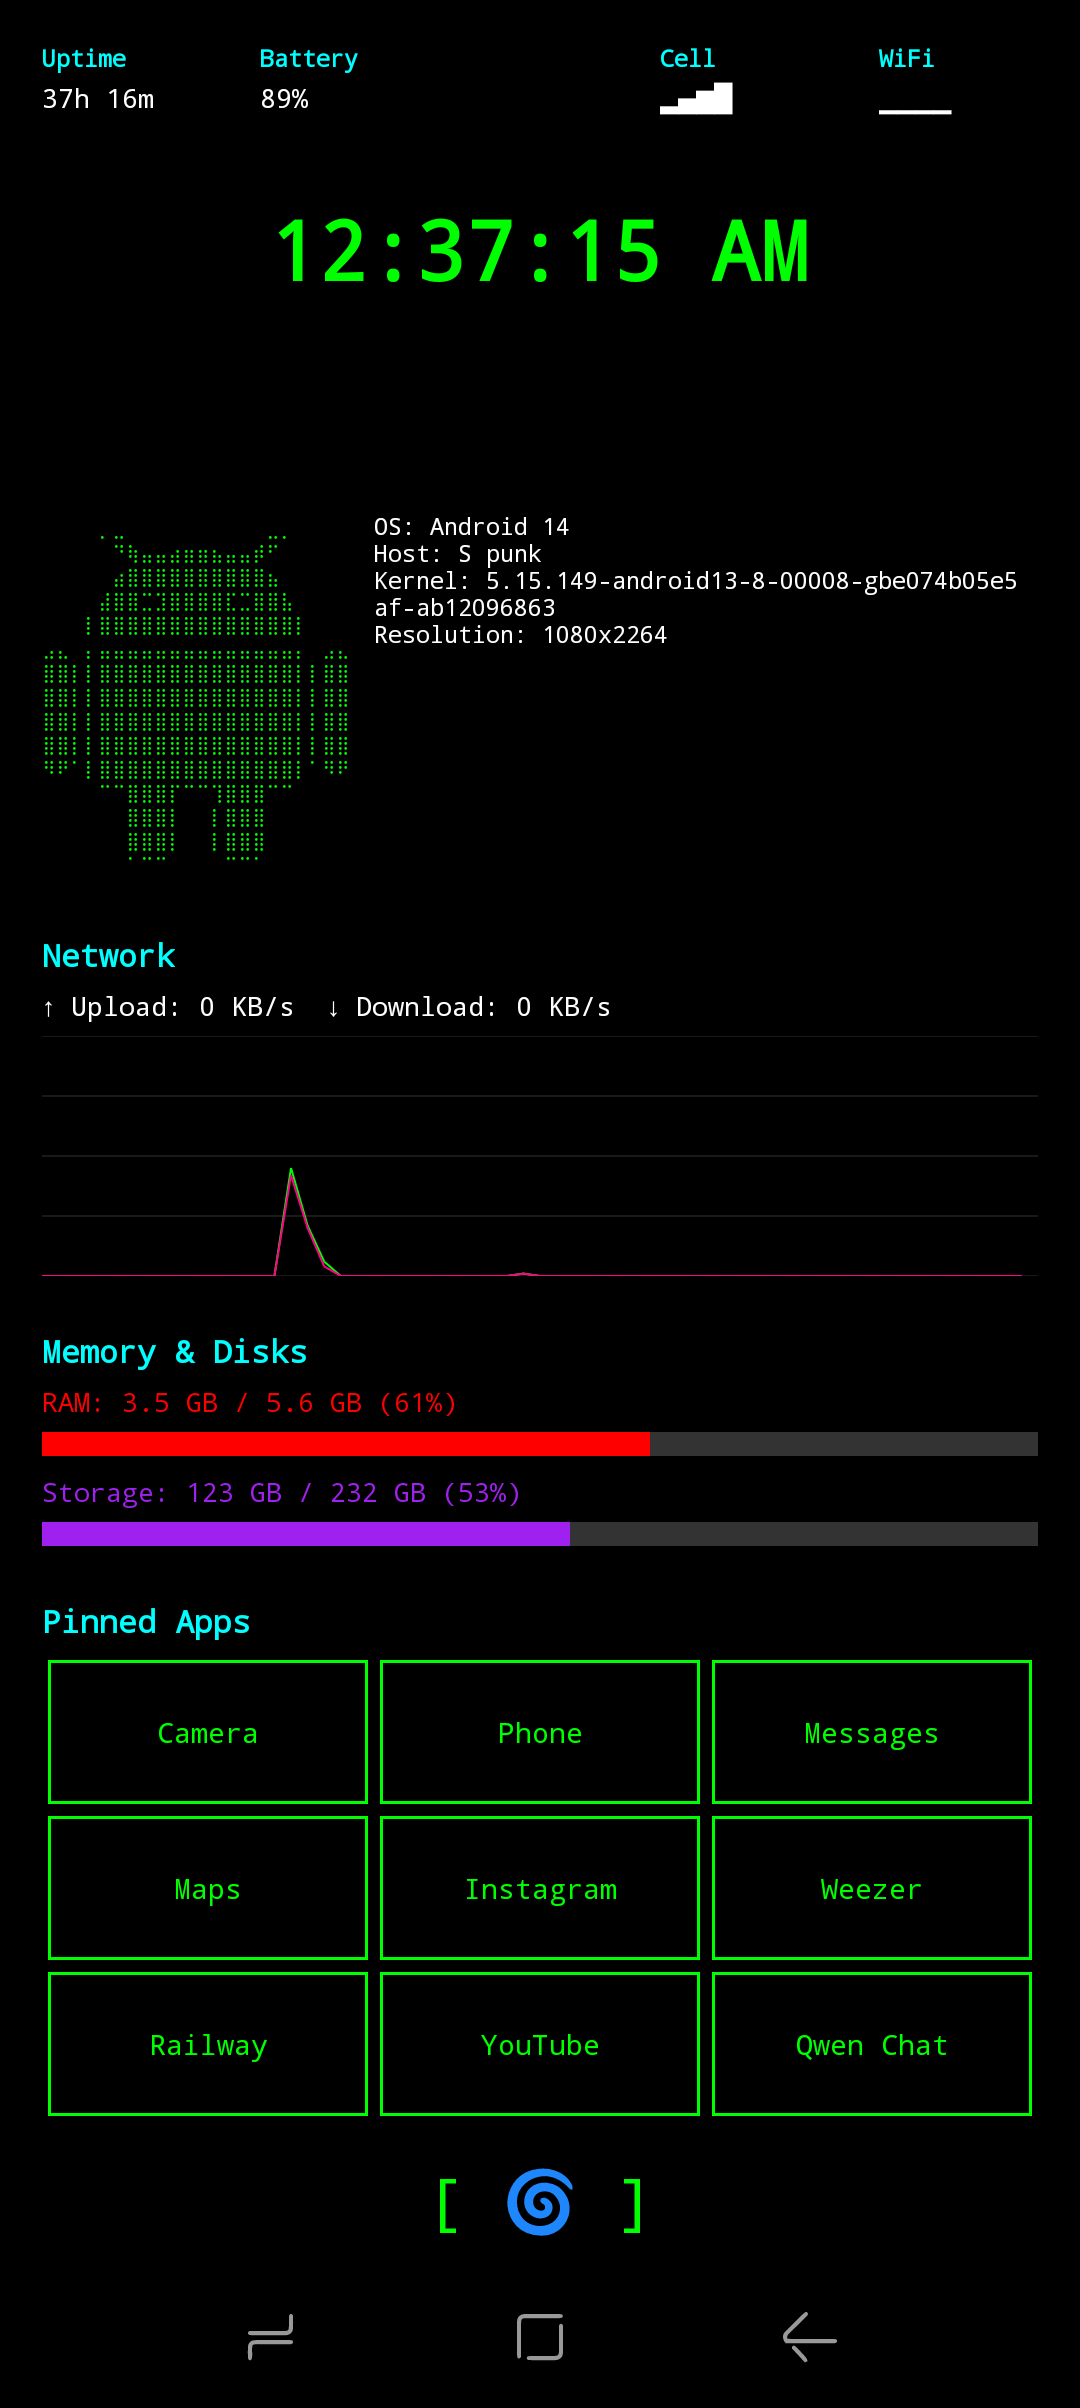
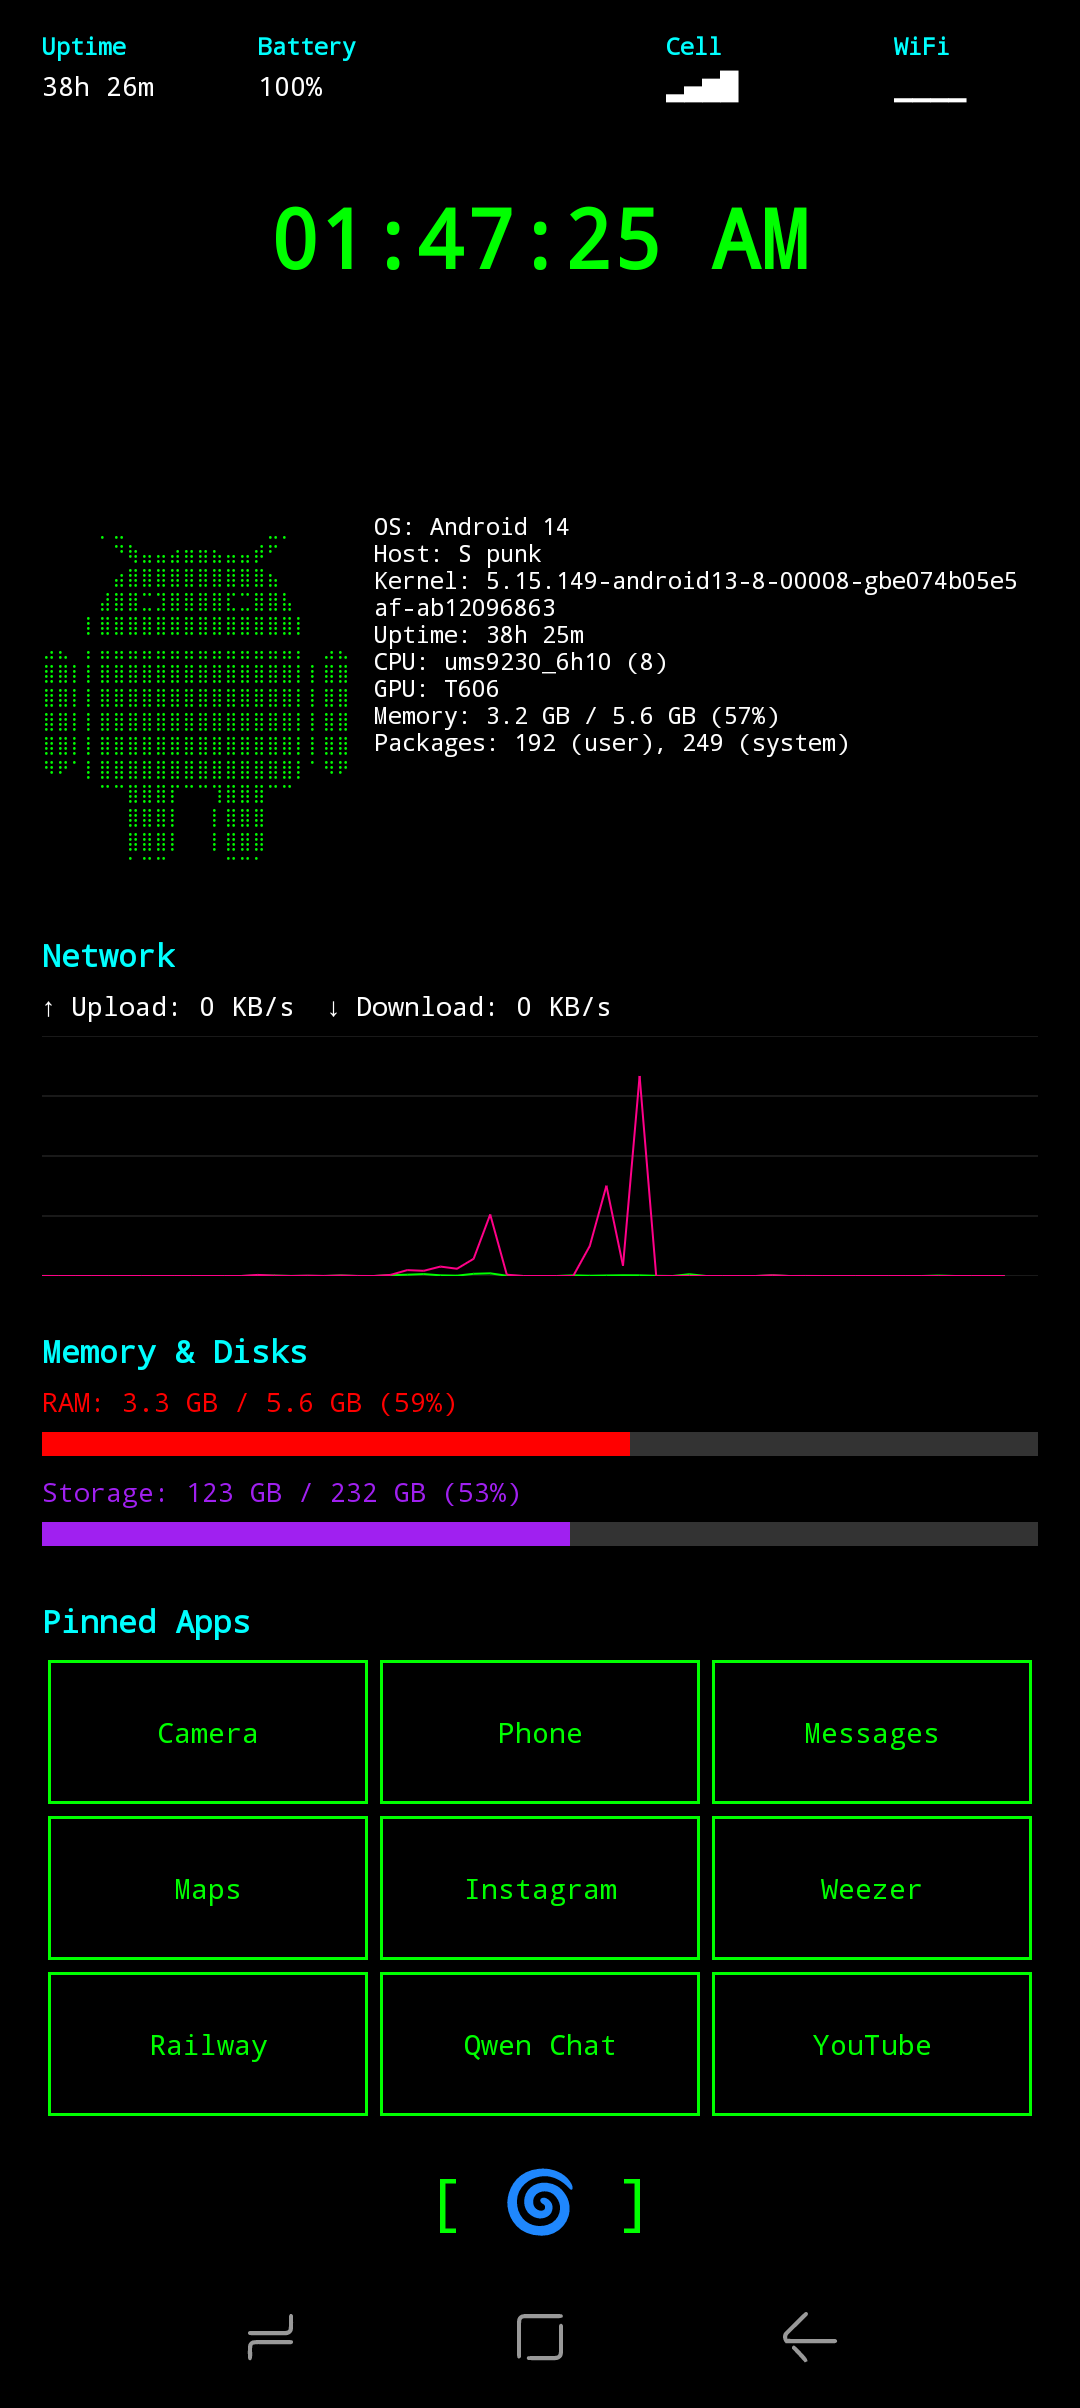
closer to neofetch

diff --git a/app/src/main/java/com/initlauncher/MainActivity.kt b/app/src/main/java/com/initlauncher/MainActivity.kt
@@ -206,22 +206,93 @@ class MainActivity : Activity() {
         val model = Build.MODEL
         val osVersion = "Android ${Build.VERSION.RELEASE}"
         val kernel = System.getProperty("os.version") ?: "Unknown"
-        val resolution = getScreenResolution()
+        val cpuInfo = getCpuInfo()
+        val gpuInfo = getGpuInfo()
+        val uptimeStr = getUptimeString()
+        val memoryInfo = getMemoryInfo()
+        val packageCount = getPackageCount()
 
         val info = """
             |OS: $osVersion
             |Host: $model
             |Kernel: $kernel
-            |Resolution: $resolution
+            |Uptime: $uptimeStr
+            |CPU: $cpuInfo
+            |GPU: $gpuInfo
+            |Memory: $memoryInfo
+            |Packages: $packageCount
         """.trimMargin()
 
         systemInfo.text = info
     }
 
-    private fun getScreenResolution(): String {
-        val metrics = DisplayMetrics()
-        windowManager.defaultDisplay.getMetrics(metrics)
-        return "${metrics.widthPixels}x${metrics.heightPixels}"
+    private fun getCpuInfo(): String {
+        return try {
+            val cpuAbi = Build.SUPPORTED_ABIS.firstOrNull() ?: "Unknown"
+            val cores = Runtime.getRuntime().availableProcessors()
+
+            // Try to read CPU hardware info
+            val cpuHardware = try {
+                java.io.File("/proc/cpuinfo").bufferedReader().use { reader ->
+                    reader.lineSequence()
+                        .find { it.startsWith("Hardware") }
+                        ?.substringAfter(":")
+                        ?.trim() ?: Build.HARDWARE
+                }
+            } catch (e: Exception) {
+                Build.HARDWARE
+            }
+
+            "$cpuHardware ($cores)"
+        } catch (e: Exception) {
+            "Unknown"
+        }
+    }
+
+    private fun getGpuInfo(): String {
+        return try {
+            // Try to get GPU info from system properties or build info
+            val renderer = if (Build.VERSION.SDK_INT >= Build.VERSION_CODES.S) {
+                Build.SOC_MODEL ?: "Unknown"
+            } else {
+                "Unknown"
+            }
+            renderer
+        } catch (e: Exception) {
+            "Unknown"
+        }
+    }
+
+    private fun getUptimeString(): String {
+        val uptimeMillis = SystemClock.elapsedRealtime()
+        val hours = (uptimeMillis / (1000 * 60 * 60)).toInt()
+        val minutes = ((uptimeMillis / (1000 * 60)) % 60).toInt()
+        return "${hours}h ${minutes}m"
+    }
+
+    private fun getMemoryInfo(): String {
+        val activityManager = getSystemService(Context.ACTIVITY_SERVICE) as ActivityManager
+        val memInfo = ActivityManager.MemoryInfo()
+        activityManager.getMemoryInfo(memInfo)
+
+        val totalMem = memInfo.totalMem / (1024 * 1024 * 1024.0)
+        val availMem = memInfo.availMem / (1024 * 1024 * 1024.0)
+        val usedMem = totalMem - availMem
+        val memPercent = (usedMem / totalMem * 100).toInt()
+
+        return String.format("%.1f GB / %.1f GB (%d%%)", usedMem, totalMem, memPercent)
+    }
+
+    private fun getPackageCount(): String {
+        return try {
+            val pm = packageManager
+            val packages = pm.getInstalledApplications(PackageManager.GET_META_DATA)
+            val userApps = packages.filter { (it.flags and ApplicationInfo.FLAG_SYSTEM) == 0 }.size
+            val systemApps = packages.filter { (it.flags and ApplicationInfo.FLAG_SYSTEM) != 0 }.size
+            "$userApps (user), $systemApps (system)"
+        } catch (e: Exception) {
+            "Unknown"
+        }
     }
 
     private fun setupPinnedApps() {
